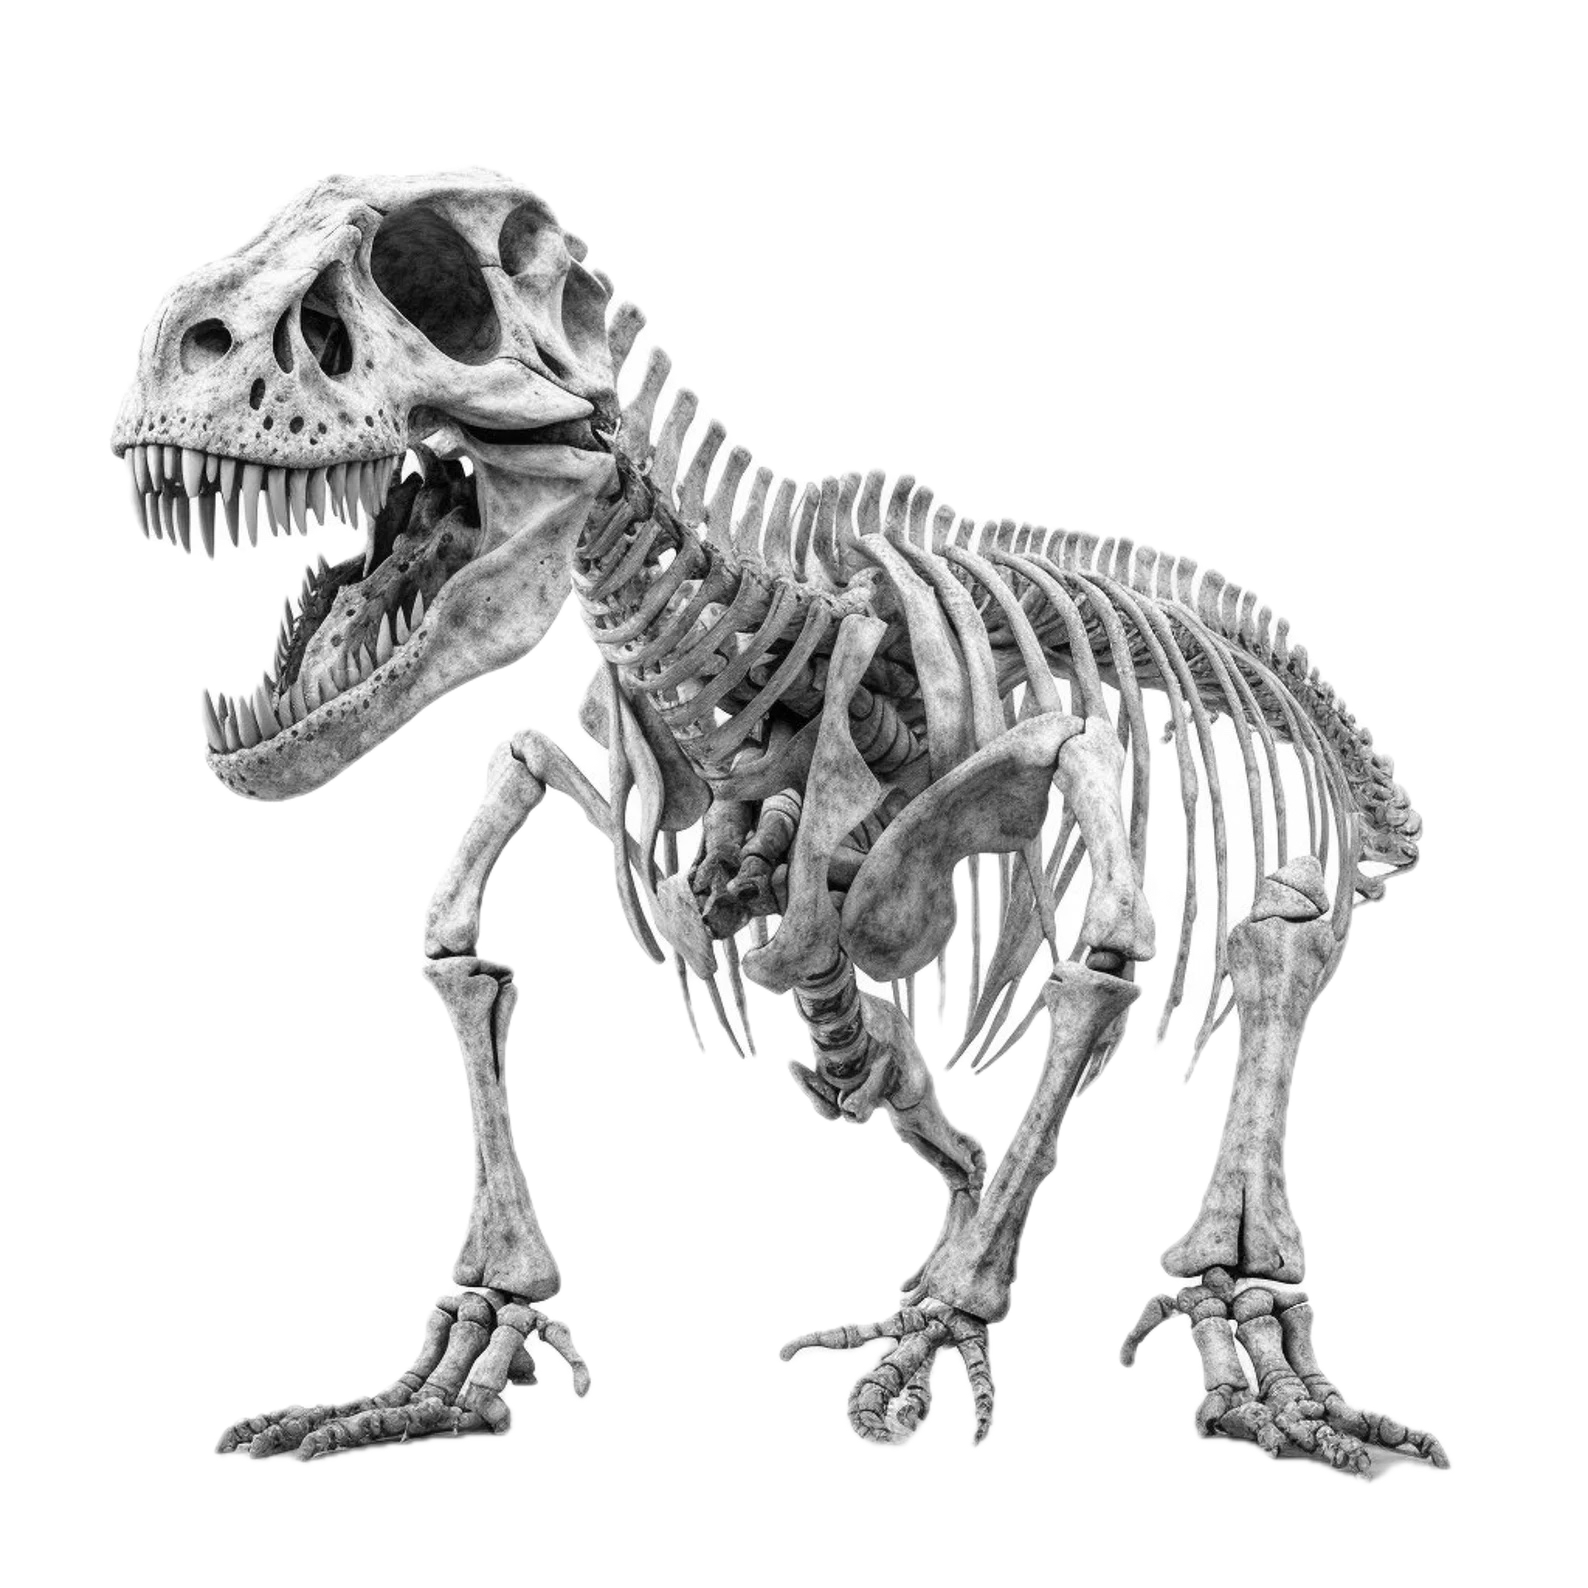
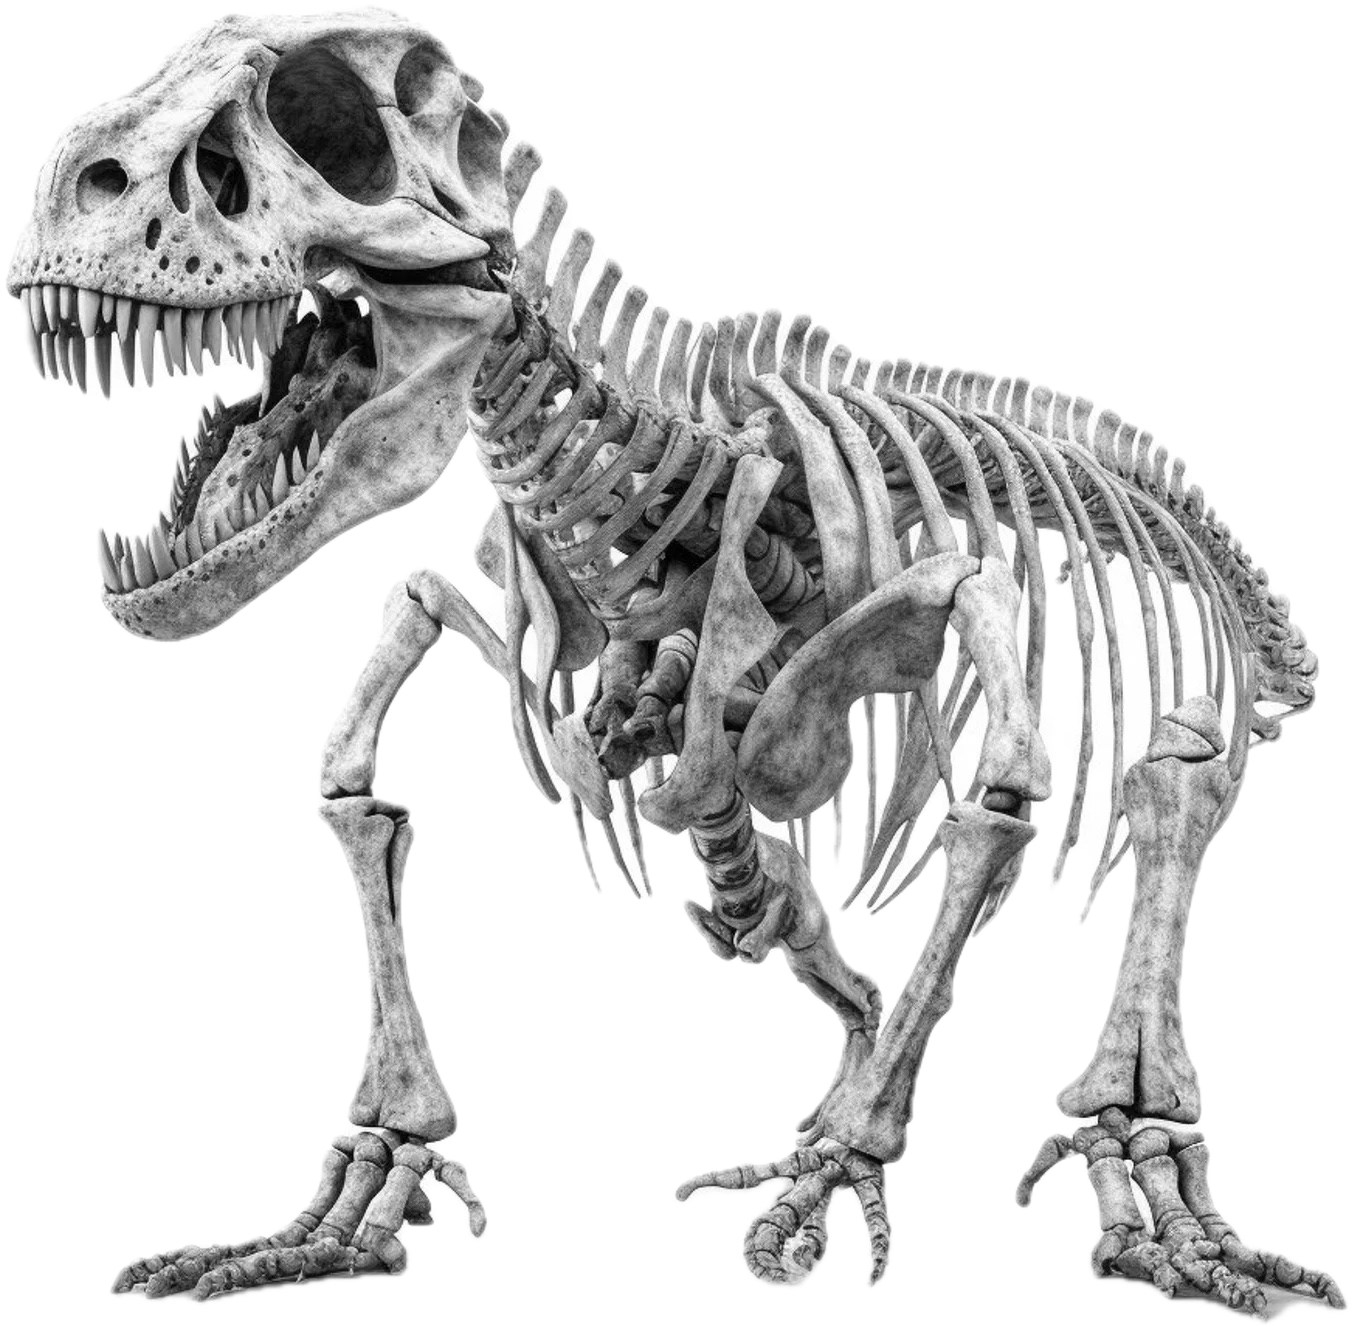
dinosaures: fix layout and rendering
- Drop remember picture/overlay (required 2 passes, blank on single inv test run)
- All coords now relative to trex node — works in single pass
- Trim transparent borders from all 3 images (magick -trim)
- Resize human (2170→300px) and bird (554→120px) — vastly oversized for their rendered size
- Align human and bird bottoms to T. rex bottom via trex.south
- Move Homo sapiens and Asteriornis labels below the image with arrows pointing up

diff --git a/figures/dinosaures_fig.tex b/figures/dinosaures_fig.tex
@@ -1,23 +1,21 @@
-\begin{center}
+\noindent\begin{tikzpicture}
 
-\begin{tikzpicture}[remember picture,overlay]
-
-  % --- T. rex ---
-  \node (trex) at (current page.center) {
+  % --- T. rex (defines the coordinate origin) ---
+  \node[inner sep=0, outer sep=0] (trex) at (0,0) {
     \includegraphics[width=\textwidth]{acte_02/chapter_3/_0420_tyrannosaurus-rex.png}
   };
 
-  % --- ground reference ---
-  \coordinate (ground) at ($(current page.center)+(0,-0.2\textheight)$);
+  % --- ground reference: bottom of T. rex image ---
+  \coordinate (ground) at (trex.south);
 
-  % --- human ---
-  \node (human) at (ground) {
+  % --- human: bottom aligned to ground ---
+  \node (human) at ($(ground)+(-0.05\textwidth,0.03\textheight)$) {
     \includegraphics[height=0.06\textheight]{acte_02/chapter_3/_human.png}
   };
 
-  % --- bird ---
-  \node (bird) at ($(ground)+(-0.08\textwidth,0)$) {
-    \includegraphics[height=0.02\textheight]{acte_02/chapter_3/_0430_asteriornis.png}
+  % --- bird: bottom aligned to ground ---
+  \node (bird) at ($(ground)+(-0.1\textwidth,0.005\textheight)$) {
+    \includegraphics[height=0.01\textheight]{acte_02/chapter_3/_0430_asteriornis.png}
   };
 
   % =========================
@@ -26,28 +24,26 @@
 
   % --- T. rex label (top right, pointing to head) ---
   \node[anchor=west,align=left] (label-trex)
-    at ($(current page.center)+(0.25\textwidth,0.25\textheight)$)
+    at ($(trex)+(0.25\textwidth,0.25\textheight)$)
     {\figcaptionname\itshape Tyrannosaurus rex};
 
   \draw[->,thin]
     (label-trex.west) -- ($(trex)+(0.15\textwidth,0.15\textheight)$);
 
-  % --- human label (above, slightly right) ---
-  \node[anchor=west,align=left] (label-human)
-    at ($(human)+(0.05\textwidth,0.08\textheight)$)
+  % --- human label (below feet, shifted right) ---
+  \node[anchor=north,align=center] (label-human)
+    at ($(ground)+(0.12\textwidth,-0.11\textheight)$)
     {\figcaptionname\itshape Homo sapiens};
 
   \draw[->,thin]
-    (label-human.west) -- (human);
+    (label-human.north) -- (human.south);
 
-  % --- bird label (above, slightly left) ---
-  \node[anchor=east,align=right] (label-bird)
-    at ($(bird)+(-0.02\textwidth,0.06\textheight)$)
+  % --- bird label (below feet, shifted left) ---
+  \node[anchor=north,align=center] (label-bird)
+    at ($(ground)+(-0.18\textwidth,-0.11\textheight)$)
     {\figcaptionname\itshape Asteriornis maastrichtensis};
 
   \draw[->,thin]
-    (label-bird.east) -- (bird);
+    (label-bird.north) -- (bird.south);
 
 \end{tikzpicture}
-
-\end{center}
